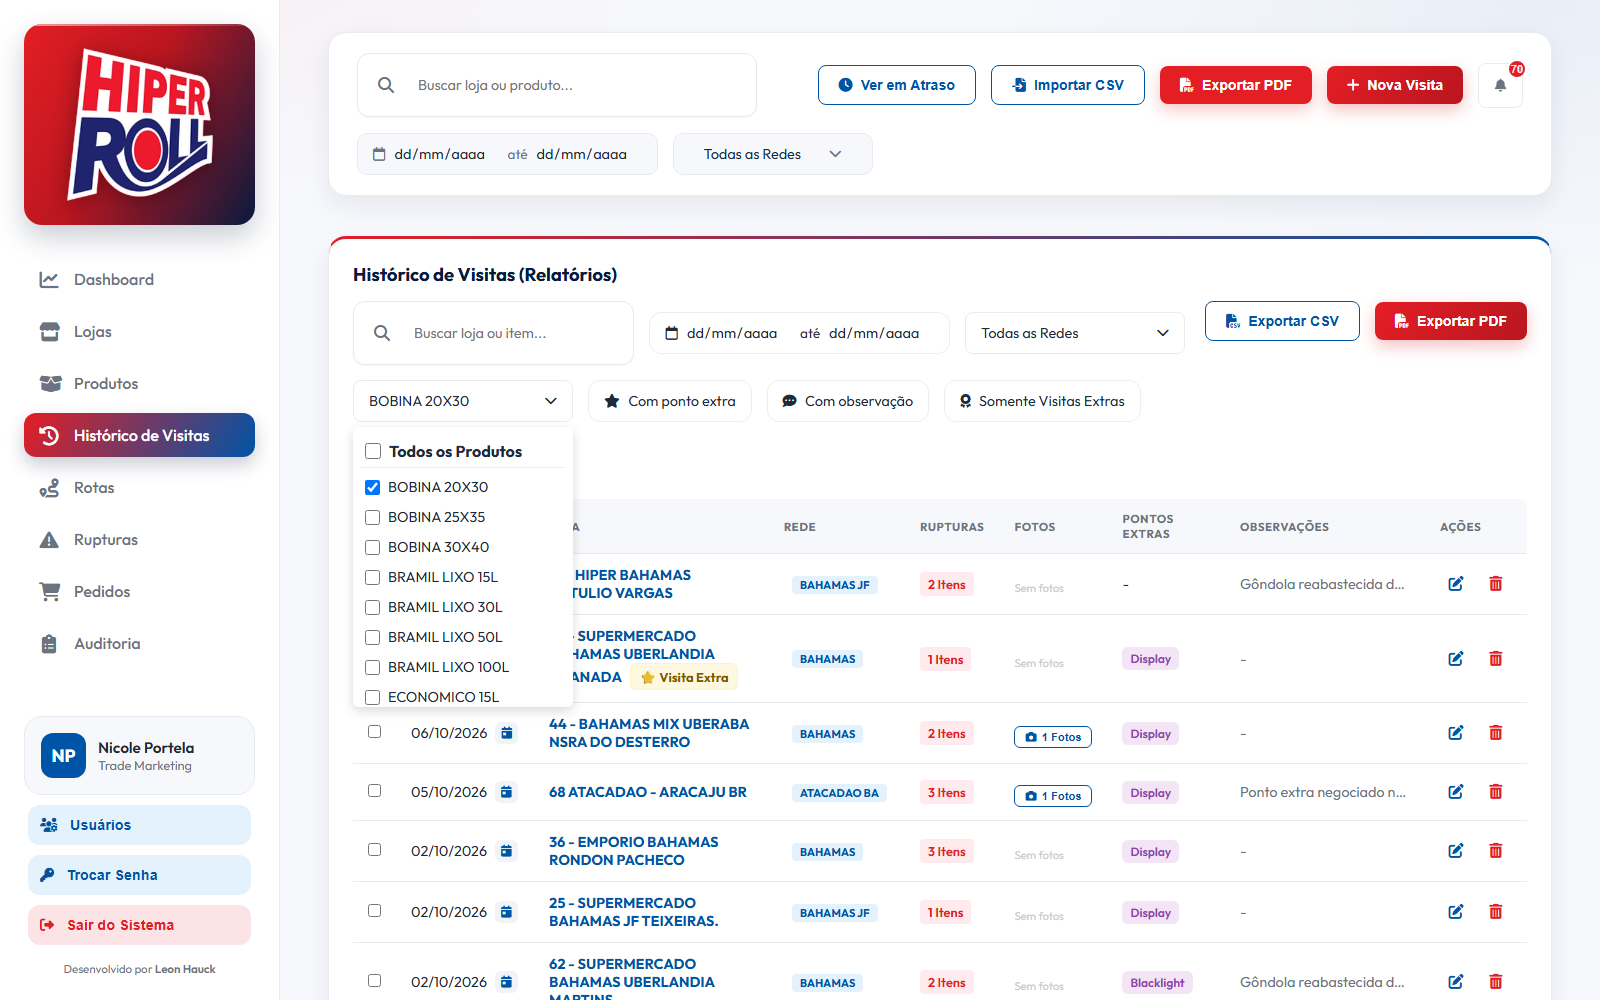
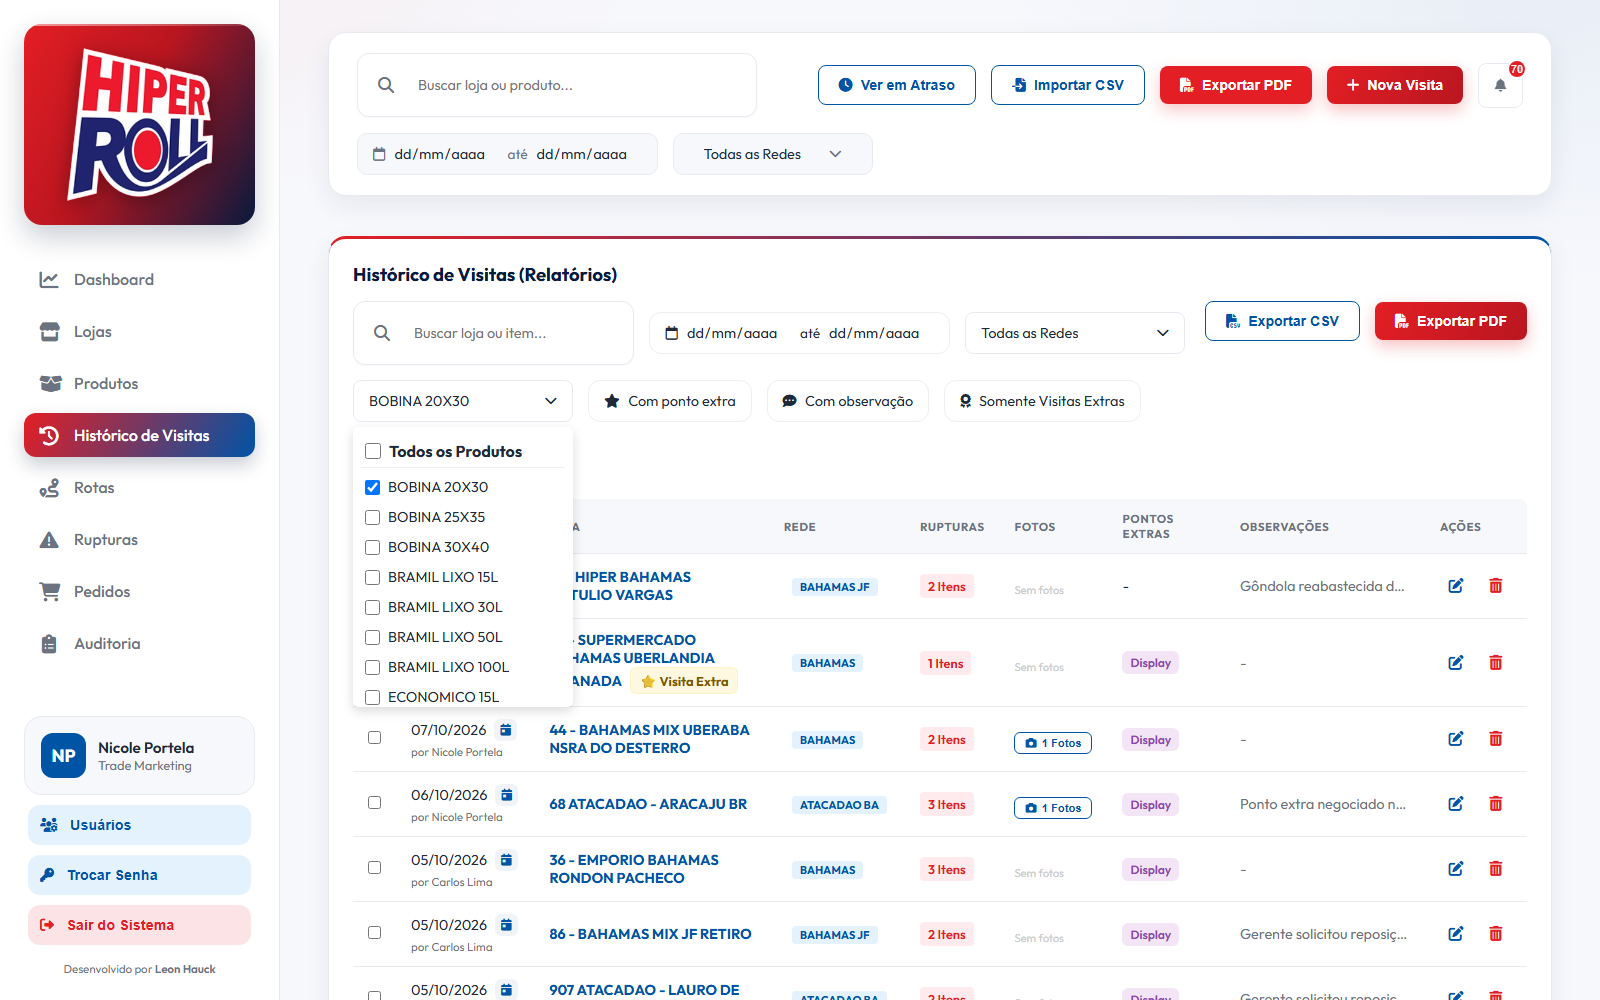
Autoria de visitas e pedidos visível para o administrador
- Listas de visitas e de pedidos mostram quem adicionou ("por Fulano")
- Modais de detalhes da visita e de edição do pedido mostram quem adicionou
  e quem editou por último, com data e hora
- Rupturas resolvidas manualmente mostram quem deu a baixa
- README, SECURITY.md e prints atualizados

diff --git a/app.js b/app.js
@@ -6565,16 +6565,14 @@ function authorshipHtml(item) {
     return `<div class="authorship">${lines.map(line => `<div>${line}</div>`).join('')}</div>`;
 }
 
-// Linha curta das tabelas: "por Fulano" (e "editado por Beltrano", se foi outra pessoa ou depois)
+// Linha curta das tabelas: "por Fulano" (quem adicionou). A edição, se houve, aparece ao
+// passar o mouse e no quadro do modal — na tabela ela alargaria demais a coluna.
 function authorLineHtml(item) {
-    if (!currentUser || !currentUser.admin || !item) return '';
-    const parts = [];
-    if (item.createdBy) parts.push(`por ${item.createdBy.n || item.createdBy.u}`);
-    if (item.lastChange && item.lastChange.a === 'update') parts.push(`editado por ${item.lastChange.n || item.lastChange.u}`);
-    if (parts.length === 0) return '';
-    const title = [item.createdBy ? formatAuthorStamp(item.createdBy, 'Adicionou') : '',
-                   (item.lastChange && item.lastChange.a === 'update') ? formatAuthorStamp(item.lastChange, 'Editou') : ''].filter(Boolean).join('\n');
-    return `<div class="row-author" title="${escapeHtml(title)}">${escapeHtml(parts.join(' · '))}</div>`;
+    if (!currentUser || !currentUser.admin || !item || !item.createdBy) return '';
+    const edited = item.lastChange && item.lastChange.a === 'update';
+    const title = [formatAuthorStamp(item.createdBy, 'Adicionou'), edited ? formatAuthorStamp(item.lastChange, 'Editou') : '']
+        .filter(Boolean).join('\n');
+    return `<div class="row-author" title="${escapeHtml(title)}">por ${escapeHtml(item.createdBy.n || item.createdBy.u)}</div>`;
 }
 
 function formatAuditTime(entry) {

diff --git a/index.html b/index.html
@@ -6,7 +6,7 @@
     <meta name="viewport" content="width=device-width, initial-scale=1.0">
     <title>Trade Marketing - Hiperroll Dashboard</title>
     <link rel="icon" href="logo-hiperroll.png">
-    <link rel="stylesheet" href="style.css?v=20261014">
+    <link rel="stylesheet" href="style.css?v=20261015">
     <link rel="preconnect" href="https://fonts.googleapis.com">
     <link rel="preconnect" href="https://fonts.gstatic.com" crossorigin>
     <link href="https://fonts.googleapis.com/css2?family=Outfit:wght@300;400;500;600;700&display=swap" rel="stylesheet">
@@ -479,7 +479,7 @@
     <script defer src="cd-clientes.js?v=20261010"></script>
     <script defer src="storage.js?v=20261012"></script>
     <script defer src="db.js?v=20260713"></script>
-    <script defer src="app.js?v=20261014"></script>
+    <script defer src="app.js?v=20261015"></script>
 </body>
 
 </html>

diff --git a/style.css b/style.css
@@ -1552,7 +1552,6 @@ select:focus, textarea:focus, input:focus {
     font-size: 0.72rem;
     font-weight: 400;
     color: var(--text-muted);
-    white-space: nowrap;
 }
 
 /* Datas múltiplas (agendamento/entrega) no modal de pedido */

diff --git a/SECURITY.md b/SECURITY.md
@@ -23,6 +23,7 @@ Vale manter pelo menos dois administradores, para o item 6 nunca ser necessário
 - O servidor registra quem adicionou, editou ou excluiu visitas e pedidos, quem deu baixa manual em rupturas, quem criou ou excluiu planos de rota, quem importou CSV, quem mexeu em usuários e senhas, e cada entrada no sistema.
 - Os registros ficam em `backend/data/audit_AAAA-MM.json`, um arquivo por mês. Senhas não são gravadas.
 - A consulta é pela aba **Auditoria**, só para administradores. O painel não tem como editar nem apagar registros; isso só é possível mexendo nos arquivos pelo gerenciador da hospedagem.
+- Cada visita e cada pedido também guarda quem adicionou e quem editou por último, mostrado ao administrador nas listas e nos modais. Esse carimbo é definido pelo servidor; o que o navegador enviar nesse campo é descartado.
 - O registro começa na data em que esta versão foi publicada: o que foi feito antes não tem autoria.
 - Faça backup da pasta `backend/data/` de tempos em tempos; os arquivos de auditoria vão junto.
 

diff --git a/README.md b/README.md
@@ -229,6 +229,7 @@ Registro de quem adicionou, editou ou excluiu cada coisa, com data e hora e o an
 
 - O servidor registra, com usuário, data e hora: visitas e pedidos adicionados, editados e excluídos; baixas manuais de ruptura; planos de rota criados e excluídos; importações de CSV; limpeza de notificações; criação, alteração e exclusão de usuários; trocas de senha; e entradas no sistema.
 - Nas edições, o registro guarda o valor de antes e o de depois de cada campo alterado. Nas exclusões, guarda o que foi apagado.
+- Cada visita e cada pedido guarda quem adicionou e quem editou por último. O administrador vê isso nas listas ("por Fulano") e, com data e hora, dentro do modal de detalhes da visita e de edição do pedido. As rupturas resolvidas manualmente mostram quem deu a baixa.
 - A aba **Auditoria** é exclusiva de administradores, com busca, filtros por mês, usuário e aba, e exportação em CSV.
 - Os registros só são acrescentados: não existe ação no sistema para editá-los ou apagá-los.
 
